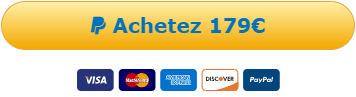
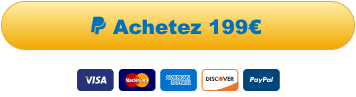
Update prices 2025

Changed region(s): [[0.309, 0.1856, 0.7416, 0.3711]]

diff --git a/index.php b/index.php
@@ -87,7 +87,7 @@
                         </video>
                         <h4 class="my-3">Vol de nuit</h4>
                         <p class="text-muted">
-                            Faites votre cours de pilotage en vol de nuit autour de rouen pour 120 Euros.
+                            Faites votre cours de pilotage en vol de nuit autour de rouen pour 129 Euros.
                         </p>
                         <?php include('paypal120.php'); ?>
                     </div>
@@ -99,7 +99,7 @@
                         <p class="text-muted">
                             Avec deux lecons, vous aurez un bien meilleur apercu du pilotage.
                             La premiere fois, on decouvre, la deuxieme, on réalise!
-                            179 euros
+                            199 euros
                         </p>
                         <?php include('paypal179.php'); ?>
                     </div>
@@ -111,7 +111,7 @@
                         <p class="text-muted">
                             Avec quatre lecons, vous serez très à l'aise en vol.
                             C'est un bon tremplin vers un brevet.
-                            350 Euros
+                            399 Euros
                         </p>
                         <?php include('paypal350.php'); ?>
                     </div>

diff --git a/paypal350.php b/paypal350.php
@@ -1,6 +1,7 @@
 <form action="https://www.paypal.com/cgi-bin/webscr" method="post" target="_top">
-<input type="hidden" name="cmd" value="_s-xclick">
-<input type="hidden" name="hosted_button_id" value="MF6BCNWYW7A2W">
+<input type="hidden" name="cmd" value="_s-xclick" />
+<input type="hidden" name="hosted_button_id" value="34ZQUKH2ZMAHS" />
+<input type="hidden" name="currency_code" value="EUR" />
 <input type="image" src="assets/img/payer-350.png" border="0" name="submit" alt="PayPal, le réflexe sécurité pour payer en ligne">
 <img alt="" border="0" src="https://www.paypalobjects.com/fr_FR/i/scr/pixel.gif" width="1" height="1">
-</form>
+</form>  

diff --git a/paypal120.php b/paypal120.php
@@ -1,6 +1,7 @@
 <form action="https://www.paypal.com/cgi-bin/webscr" method="post" target="_top">
-<input type="hidden" name="cmd" value="_s-xclick">
-<input type="hidden" name="hosted_button_id" value="R4GCAJPQ79NHA">
+<input type="hidden" name="cmd" value="_s-xclick" />
+<input type="hidden" name="hosted_button_id" value="2UUWCFDN989UJ" />
+<input type="hidden" name="currency_code" value="EUR" />
 <input type="image" src="assets/img/payer-120.png" border="0" name="submit" alt="PayPal, le réflexe sécurité pour payer en ligne">
 <img alt="" border="0" src="https://www.paypalobjects.com/fr_FR/i/scr/pixel.gif" width="1" height="1">
-</form>
+</form> 

diff --git a/paypal179.php b/paypal179.php
@@ -1,6 +1,7 @@
 <form action="https://www.paypal.com/cgi-bin/webscr" method="post" target="_top">
-<input type="hidden" name="cmd" value="_s-xclick">
-<input type="hidden" name="hosted_button_id" value="4CGMBLQ5EAGYS">
+<input type="hidden" name="cmd" value="_s-xclick" />
+<input type="hidden" name="hosted_button_id" value="TLULG4FZEK8TW" />
+<input type="hidden" name="currency_code" value="EUR" />
 <input type="image" src="assets/img/payer-179.png" border="0" name="submit" alt="PayPal, le réflexe sécurité pour payer en ligne">
 <img alt="" border="0" src="https://www.paypalobjects.com/fr_FR/i/scr/pixel.gif" width="1" height="1">
 </form>

diff --git a/paypal90.php b/paypal90.php
@@ -1,6 +1,7 @@
 <form action="https://www.paypal.com/cgi-bin/webscr" method="post" target="_top">
-<input type="hidden" name="cmd" value="_s-xclick">
-<input type="hidden" name="hosted_button_id" value="GTYC7LWBPH3GQ">
+<input type="hidden" name="cmd" value="_s-xclick" />
+<input type="hidden" name="hosted_button_id" value="LZRJ8E59QTU4G" />
+<input type="hidden" name="currency_code" value="EUR" />
 <input type="image" src="assets/img/payer-90.png" border="0" name="submit" alt="PayPal, le réflexe sécurité pour payer en ligne">
 <img alt="" border="0" src="https://www.paypalobjects.com/fr_FR/i/scr/pixel.gif" width="1" height="1">
 </form>
